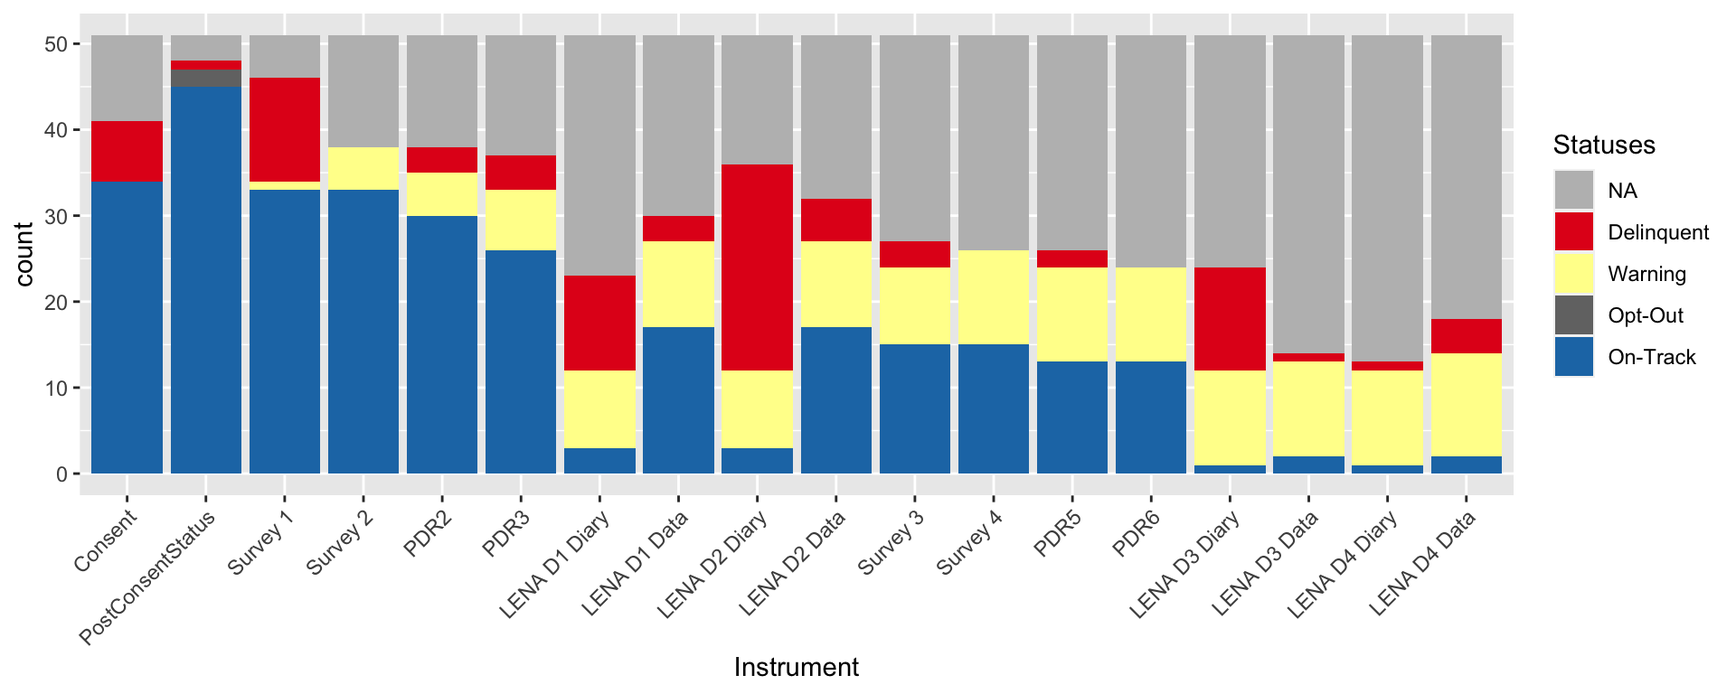
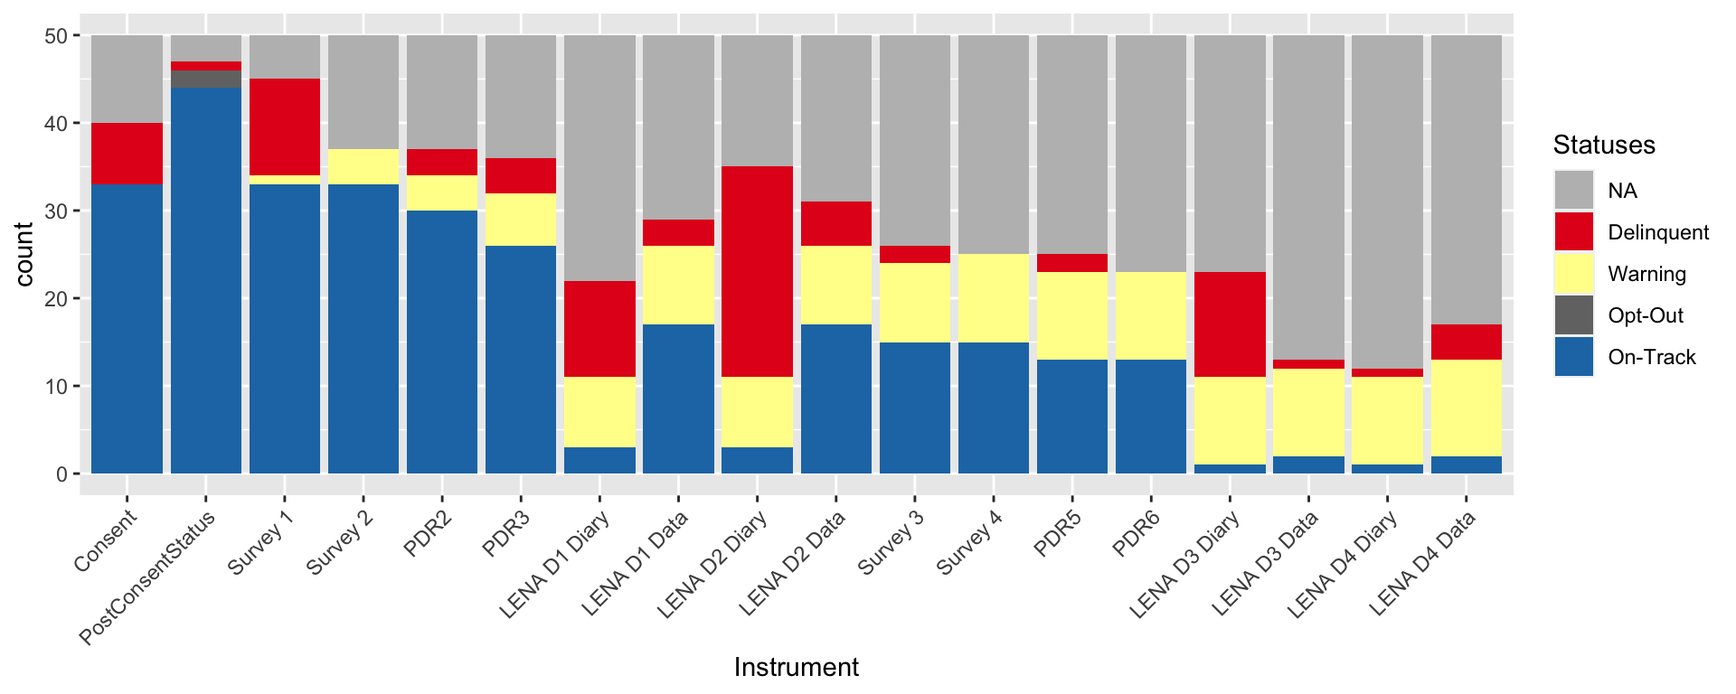
Update wave 1 buttons and intv.

diff --git a/_site/reports.html b/_site/reports.html
@@ -399,7 +399,7 @@ $(document).ready(function () {
 </div>
 <center>
 <div id="htmlwidget-2e17466358a46d139971" style="width:960px;height:384px;" class="plotly html-widget"></div>
-<script type="application/json" data-for="htmlwidget-2e17466358a46d139971">{"x":{"data":[{"x":[1577836800,1594210295,1595855440,1595947129,1596636699,1597147658,1597402867,1597741838,1598436608,1598538979,1598541299,1598955066,1599570320,1600250194,1600255992,1600355481,1600863340,1601302221,1601566658,1602239005,1603368728,1603379955,1603977413,1604491899,1604751373,1605089156,1605170346,1605179257,1605721538,1605872792,1607016682,1607085091,1607472000,1607644800,1607687486,1609891200,1609897301,1611187200,1611187200,1611187200,1609897301,1609891200,1607687486,1607644800,1607472000,1607085091,1607016682,1605872792,1605721538,1605179257,1605170346,1605089156,1604751373,1604491899,1603977413,1603379955,1603368728,1602239005,1601566658,1601302221,1600863340,1600355481,1600255992,1600250194,1599570320,1598955066,1598541299,1598538979,1598436608,1597741838,1597402867,1597147658,1596636699,1595947129,1595855440,1594210295,1577836800,1577836800],"y":[0,0,0,0,0,0,0,0,0,0,0,0,0,0,0,0,0,0,0,0,0,0,0,0,0,0,0,0,0,0,0,0,0,0,0,0,0,0,0,41,40,39,38,37,36,35,34,33,32,31,30,29,28,27,26,25,24,23,22,21,20,19,18,17,16,15,14,13,12,11,10,9,8,7,6,5,4,0],"text":["InformedConsent: 2020-01-01 08:00:00<br />Cumulative:  4","InformedConsent: 2020-07-08 19:11:35<br />Cumulative:  5","InformedConsent: 2020-07-27 20:10:40<br />Cumulative:  6","InformedConsent: 2020-07-28 21:38:49<br />Cumulative:  7","InformedConsent: 2020-08-05 21:11:39<br />Cumulative:  8","InformedConsent: 2020-08-11 19:07:38<br />Cumulative:  9","InformedConsent: 2020-08-14 18:01:07<br />Cumulative: 10","InformedConsent: 2020-08-18 16:10:38<br />Cumulative: 11","InformedConsent: 2020-08-26 17:10:08<br />Cumulative: 12","InformedConsent: 2020-08-27 21:36:19<br />Cumulative: 13","InformedConsent: 2020-08-27 22:14:59<br />Cumulative: 14","InformedConsent: 2020-09-01 17:11:06<br />Cumulative: 15","InformedConsent: 2020-09-08 20:05:20<br />Cumulative: 16","InformedConsent: 2020-09-16 16:56:34<br />Cumulative: 17","InformedConsent: 2020-09-16 18:33:12<br />Cumulative: 18","InformedConsent: 2020-09-17 22:11:21<br />Cumulative: 19","InformedConsent: 2020-09-23 19:15:40<br />Cumulative: 20","InformedConsent: 2020-09-28 21:10:21<br />Cumulative: 21","InformedConsent: 2020-10-01 22:37:38<br />Cumulative: 22","InformedConsent: 2020-10-09 17:23:25<br />Cumulative: 23","InformedConsent: 2020-10-22 19:12:08<br />Cumulative: 24","InformedConsent: 2020-10-22 22:19:15<br />Cumulative: 25","InformedConsent: 2020-10-29 20:16:53<br />Cumulative: 26","InformedConsent: 2020-11-04 20:11:39<br />Cumulative: 27","InformedConsent: 2020-11-07 20:16:13<br />Cumulative: 28","InformedConsent: 2020-11-11 18:05:56<br />Cumulative: 29","InformedConsent: 2020-11-12 16:39:06<br />Cumulative: 30","InformedConsent: 2020-11-12 19:07:37<br />Cumulative: 31","InformedConsent: 2020-11-19 01:45:38<br />Cumulative: 32","InformedConsent: 2020-11-20 19:46:32<br />Cumulative: 33","InformedConsent: 2020-12-04 01:31:22<br />Cumulative: 34","InformedConsent: 2020-12-04 20:31:31<br />Cumulative: 35","InformedConsent: 2020-12-09 08:00:00<br />Cumulative: 36","InformedConsent: 2020-12-11 08:00:00<br />Cumulative: 37","InformedConsent: 2020-12-11 19:51:26<br />Cumulative: 38","InformedConsent: 2021-01-06 08:00:00<br />Cumulative: 39","InformedConsent: 2021-01-06 09:41:41<br />Cumulative: 40","InformedConsent: 2021-01-21 08:00:00<br />Cumulative: 41","InformedConsent: 2021-01-21 08:00:00<br />Cumulative: 41","InformedConsent: 2021-01-21 08:00:00<br />Cumulative: 41","InformedConsent: 2021-01-06 09:41:41<br />Cumulative: 40","InformedConsent: 2021-01-06 08:00:00<br />Cumulative: 39","InformedConsent: 2020-12-11 19:51:26<br />Cumulative: 38","InformedConsent: 2020-12-11 08:00:00<br />Cumulative: 37","InformedConsent: 2020-12-09 08:00:00<br />Cumulative: 36","InformedConsent: 2020-12-04 20:31:31<br />Cumulative: 35","InformedConsent: 2020-12-04 01:31:22<br />Cumulative: 34","InformedConsent: 2020-11-20 19:46:32<br />Cumulative: 33","InformedConsent: 2020-11-19 01:45:38<br />Cumulative: 32","InformedConsent: 2020-11-12 19:07:37<br />Cumulative: 31","InformedConsent: 2020-11-12 16:39:06<br />Cumulative: 30","InformedConsent: 2020-11-11 18:05:56<br />Cumulative: 29","InformedConsent: 2020-11-07 20:16:13<br />Cumulative: 28","InformedConsent: 2020-11-04 20:11:39<br />Cumulative: 27","InformedConsent: 2020-10-29 20:16:53<br />Cumulative: 26","InformedConsent: 2020-10-22 22:19:15<br />Cumulative: 25","InformedConsent: 2020-10-22 19:12:08<br />Cumulative: 24","InformedConsent: 2020-10-09 17:23:25<br />Cumulative: 23","InformedConsent: 2020-10-01 22:37:38<br />Cumulative: 22","InformedConsent: 2020-09-28 21:10:21<br />Cumulative: 21","InformedConsent: 2020-09-23 19:15:40<br />Cumulative: 20","InformedConsent: 2020-09-17 22:11:21<br />Cumulative: 19","InformedConsent: 2020-09-16 18:33:12<br />Cumulative: 18","InformedConsent: 2020-09-16 16:56:34<br />Cumulative: 17","InformedConsent: 2020-09-08 20:05:20<br />Cumulative: 16","InformedConsent: 2020-09-01 17:11:06<br />Cumulative: 15","InformedConsent: 2020-08-27 22:14:59<br />Cumulative: 14","InformedConsent: 2020-08-27 21:36:19<br />Cumulative: 13","InformedConsent: 2020-08-26 17:10:08<br />Cumulative: 12","InformedConsent: 2020-08-18 16:10:38<br />Cumulative: 11","InformedConsent: 2020-08-14 18:01:07<br />Cumulative: 10","InformedConsent: 2020-08-11 19:07:38<br />Cumulative:  9","InformedConsent: 2020-08-05 21:11:39<br />Cumulative:  8","InformedConsent: 2020-07-28 21:38:49<br />Cumulative:  7","InformedConsent: 2020-07-27 20:10:40<br />Cumulative:  6","InformedConsent: 2020-07-08 19:11:35<br />Cumulative:  5","InformedConsent: 2020-01-01 08:00:00<br />Cumulative:  4","InformedConsent: 2020-01-01 08:00:00<br />Cumulative:  4"],"type":"scatter","mode":"lines","line":{"width":1.88976377952756,"color":"transparent","dash":"solid"},"fill":"toself","fillcolor":"rgba(105,179,162,0.5)","hoveron":"points","showlegend":false,"xaxis":"x","yaxis":"y","hoverinfo":"text","frame":null},{"x":[1577836800,1594210295,1595855440,1595947129,1596636699,1597147658,1597402867,1597741838,1598436608,1598538979,1598541299,1598955066,1599570320,1600250194,1600255992,1600355481,1600863340,1601302221,1601566658,1602239005,1603368728,1603379955,1603977413,1604491899,1604751373,1605089156,1605170346,1605179257,1605721538,1605872792,1607016682,1607085091,1607472000,1607644800,1607687486,1609891200,1609897301,1611187200,null],"y":[4,5,6,7,8,9,10,11,12,13,14,15,16,17,18,19,20,21,22,23,24,25,26,27,28,29,30,31,32,33,34,35,36,37,38,39,40,41,48],"text":["InformedConsent: 2020-01-01 00:00:00<br />Cumulative:  4","InformedConsent: 2020-07-08 12:11:35<br />Cumulative:  5","InformedConsent: 2020-07-27 13:10:40<br />Cumulative:  6","InformedConsent: 2020-07-28 14:38:49<br />Cumulative:  7","InformedConsent: 2020-08-05 14:11:39<br />Cumulative:  8","InformedConsent: 2020-08-11 12:07:38<br />Cumulative:  9","InformedConsent: 2020-08-14 11:01:07<br />Cumulative: 10","InformedConsent: 2020-08-18 09:10:38<br />Cumulative: 11","InformedConsent: 2020-08-26 10:10:08<br />Cumulative: 12","InformedConsent: 2020-08-27 14:36:19<br />Cumulative: 13","InformedConsent: 2020-08-27 15:14:59<br />Cumulative: 14","InformedConsent: 2020-09-01 10:11:06<br />Cumulative: 15","InformedConsent: 2020-09-08 13:05:20<br />Cumulative: 16","InformedConsent: 2020-09-16 09:56:34<br />Cumulative: 17","InformedConsent: 2020-09-16 11:33:12<br />Cumulative: 18","InformedConsent: 2020-09-17 15:11:21<br />Cumulative: 19","InformedConsent: 2020-09-23 12:15:40<br />Cumulative: 20","InformedConsent: 2020-09-28 14:10:21<br />Cumulative: 21","InformedConsent: 2020-10-01 15:37:38<br />Cumulative: 22","InformedConsent: 2020-10-09 10:23:25<br />Cumulative: 23","InformedConsent: 2020-10-22 12:12:08<br />Cumulative: 24","InformedConsent: 2020-10-22 15:19:15<br />Cumulative: 25","InformedConsent: 2020-10-29 13:16:53<br />Cumulative: 26","InformedConsent: 2020-11-04 12:11:39<br />Cumulative: 27","InformedConsent: 2020-11-07 12:16:13<br />Cumulative: 28","InformedConsent: 2020-11-11 10:05:56<br />Cumulative: 29","InformedConsent: 2020-11-12 08:39:06<br />Cumulative: 30","InformedConsent: 2020-11-12 11:07:37<br />Cumulative: 31","InformedConsent: 2020-11-18 17:45:38<br />Cumulative: 32","InformedConsent: 2020-11-20 11:46:32<br />Cumulative: 33","InformedConsent: 2020-12-03 17:31:22<br />Cumulative: 34","InformedConsent: 2020-12-04 12:31:31<br />Cumulative: 35","InformedConsent: 2020-12-09 00:00:00<br />Cumulative: 36","InformedConsent: 2020-12-11 00:00:00<br />Cumulative: 37","InformedConsent: 2020-12-11 11:51:26<br />Cumulative: 38","InformedConsent: 2021-01-06 00:00:00<br />Cumulative: 39","InformedConsent: 2021-01-06 01:41:41<br />Cumulative: 40","InformedConsent: 2021-01-21 00:00:00<br />Cumulative: 41","InformedConsent: NA<br />Cumulative: 48"],"type":"scatter","mode":"lines","line":{"width":1.88976377952756,"color":"rgba(105,179,162,1)","dash":"solid"},"hoveron":"points","showlegend":false,"xaxis":"x","yaxis":"y","hoverinfo":"text","frame":null}],"layout":{"margin":{"t":65.813200498132,"r":39.8505603985056,"b":80.8634288086343,"l":70.9007887090079},"font":{"color":"rgba(0,0,0,1)","family":"Arial Narrow","size":15.2760481527605},"xaxis":{"domain":[0,1],"automargin":true,"type":"linear","autorange":false,"range":[1576169280,1612854720],"tickmode":"array","ticktext":["Jan 2020","Apr 2020","Jul 2020","Oct 2020","Jan 2021"],"tickvals":[1577836800,1585699200,1593561600,1601510400,1609459200],"categoryorder":"array","categoryarray":["Jan 2020","Apr 2020","Jul 2020","Oct 2020","Jan 2021"],"nticks":null,"ticks":"","tickcolor":null,"ticklen":3.81901203819012,"tickwidth":0,"showticklabels":true,"tickfont":{"color":"rgba(77,77,77,1)","family":"Arial Narrow","size":15.2760481527605},"tickangle":-0,"showline":false,"linecolor":null,"linewidth":0,"showgrid":true,"gridcolor":"rgba(204,204,204,1)","gridwidth":0.265670402656704,"zeroline":false,"anchor":"y","title":{"text":"Time","font":{"color":"rgba(0,0,0,1)","family":"Arial Narrow","size":11.9551681195517}},"hoverformat":".2f"},"yaxis":{"domain":[0,1],"automargin":true,"type":"linear","autorange":false,"range":[-2.4,50.4],"tickmode":"array","ticktext":["0","10","20","30","40","50"],"tickvals":[0,10,20,30,40,50],"categoryorder":"array","categoryarray":["0","10","20","30","40","50"],"nticks":null,"ticks":"","tickcolor":null,"ticklen":3.81901203819012,"tickwidth":0,"showticklabels":true,"tickfont":{"color":"rgba(77,77,77,1)","family":"Arial Narrow","size":15.2760481527605},"tickangle":-0,"showline":false,"linecolor":null,"linewidth":0,"showgrid":true,"gridcolor":"rgba(204,204,204,1)","gridwidth":0.265670402656704,"zeroline":false,"anchor":"x","title":{"text":"Dyad Count","font":{"color":"rgba(0,0,0,1)","family":"Arial Narrow","size":11.9551681195517}},"hoverformat":".2f"},"shapes":[{"type":"rect","fillcolor":null,"line":{"color":null,"width":0,"linetype":[]},"yref":"paper","xref":"paper","x0":0,"x1":1,"y0":0,"y1":1}],"showlegend":false,"legend":{"bgcolor":null,"bordercolor":null,"borderwidth":0,"font":{"color":"rgba(0,0,0,1)","family":"Arial Narrow","size":12.2208385222084}},"hovermode":"closest","barmode":"relative"},"config":{"doubleClick":"reset","showSendToCloud":false},"source":"A","attrs":{"407a1ab38223":{"x":{},"y":{},"type":"scatter"},"407a7f24d586":{"x":{},"y":{}}},"cur_data":"407a1ab38223","visdat":{"407a1ab38223":["function (y) ","x"],"407a7f24d586":["function (y) ","x"]},"highlight":{"on":"plotly_click","persistent":false,"dynamic":false,"selectize":false,"opacityDim":0.2,"selected":{"opacity":1},"debounce":0},"shinyEvents":["plotly_hover","plotly_click","plotly_selected","plotly_relayout","plotly_brushed","plotly_brushing","plotly_clickannotation","plotly_doubleclick","plotly_deselect","plotly_afterplot","plotly_sunburstclick"],"base_url":"https://plot.ly"},"evals":[],"jsHooks":[]}</script><img src="reports_files/figure-html/SEAL%20Conditions%20Plot-2.png" width="960" />
+<script type="application/json" data-for="htmlwidget-2e17466358a46d139971">{"x":{"data":[{"x":[1577836800,1594210295,1595855440,1595947129,1596636699,1597147658,1597402867,1597741838,1598436608,1598538979,1598541299,1598955066,1599570320,1600250194,1600255992,1600355481,1600863340,1601302221,1601566658,1602239005,1603368728,1603379955,1603977413,1604491899,1604751373,1605089156,1605170346,1605179257,1605721538,1605872792,1607016682,1607085091,1607472000,1607644800,1607687486,1609891200,1609897301,1611187200,1611187200,1611187200,1609897301,1609891200,1607687486,1607644800,1607472000,1607085091,1607016682,1605872792,1605721538,1605179257,1605170346,1605089156,1604751373,1604491899,1603977413,1603379955,1603368728,1602239005,1601566658,1601302221,1600863340,1600355481,1600255992,1600250194,1599570320,1598955066,1598541299,1598538979,1598436608,1597741838,1597402867,1597147658,1596636699,1595947129,1595855440,1594210295,1577836800,1577836800],"y":[0,0,0,0,0,0,0,0,0,0,0,0,0,0,0,0,0,0,0,0,0,0,0,0,0,0,0,0,0,0,0,0,0,0,0,0,0,0,0,41,40,39,38,37,36,35,34,33,32,31,30,29,28,27,26,25,24,23,22,21,20,19,18,17,16,15,14,13,12,11,10,9,8,7,6,5,4,0],"text":["InformedConsent: 2020-01-01 08:00:00<br />Cumulative:  4","InformedConsent: 2020-07-08 19:11:35<br />Cumulative:  5","InformedConsent: 2020-07-27 20:10:40<br />Cumulative:  6","InformedConsent: 2020-07-28 21:38:49<br />Cumulative:  7","InformedConsent: 2020-08-05 21:11:39<br />Cumulative:  8","InformedConsent: 2020-08-11 19:07:38<br />Cumulative:  9","InformedConsent: 2020-08-14 18:01:07<br />Cumulative: 10","InformedConsent: 2020-08-18 16:10:38<br />Cumulative: 11","InformedConsent: 2020-08-26 17:10:08<br />Cumulative: 12","InformedConsent: 2020-08-27 21:36:19<br />Cumulative: 13","InformedConsent: 2020-08-27 22:14:59<br />Cumulative: 14","InformedConsent: 2020-09-01 17:11:06<br />Cumulative: 15","InformedConsent: 2020-09-08 20:05:20<br />Cumulative: 16","InformedConsent: 2020-09-16 16:56:34<br />Cumulative: 17","InformedConsent: 2020-09-16 18:33:12<br />Cumulative: 18","InformedConsent: 2020-09-17 22:11:21<br />Cumulative: 19","InformedConsent: 2020-09-23 19:15:40<br />Cumulative: 20","InformedConsent: 2020-09-28 21:10:21<br />Cumulative: 21","InformedConsent: 2020-10-01 22:37:38<br />Cumulative: 22","InformedConsent: 2020-10-09 17:23:25<br />Cumulative: 23","InformedConsent: 2020-10-22 19:12:08<br />Cumulative: 24","InformedConsent: 2020-10-22 22:19:15<br />Cumulative: 25","InformedConsent: 2020-10-29 20:16:53<br />Cumulative: 26","InformedConsent: 2020-11-04 20:11:39<br />Cumulative: 27","InformedConsent: 2020-11-07 20:16:13<br />Cumulative: 28","InformedConsent: 2020-11-11 18:05:56<br />Cumulative: 29","InformedConsent: 2020-11-12 16:39:06<br />Cumulative: 30","InformedConsent: 2020-11-12 19:07:37<br />Cumulative: 31","InformedConsent: 2020-11-19 01:45:38<br />Cumulative: 32","InformedConsent: 2020-11-20 19:46:32<br />Cumulative: 33","InformedConsent: 2020-12-04 01:31:22<br />Cumulative: 34","InformedConsent: 2020-12-04 20:31:31<br />Cumulative: 35","InformedConsent: 2020-12-09 08:00:00<br />Cumulative: 36","InformedConsent: 2020-12-11 08:00:00<br />Cumulative: 37","InformedConsent: 2020-12-11 19:51:26<br />Cumulative: 38","InformedConsent: 2021-01-06 08:00:00<br />Cumulative: 39","InformedConsent: 2021-01-06 09:41:41<br />Cumulative: 40","InformedConsent: 2021-01-21 08:00:00<br />Cumulative: 41","InformedConsent: 2021-01-21 08:00:00<br />Cumulative: 41","InformedConsent: 2021-01-21 08:00:00<br />Cumulative: 41","InformedConsent: 2021-01-06 09:41:41<br />Cumulative: 40","InformedConsent: 2021-01-06 08:00:00<br />Cumulative: 39","InformedConsent: 2020-12-11 19:51:26<br />Cumulative: 38","InformedConsent: 2020-12-11 08:00:00<br />Cumulative: 37","InformedConsent: 2020-12-09 08:00:00<br />Cumulative: 36","InformedConsent: 2020-12-04 20:31:31<br />Cumulative: 35","InformedConsent: 2020-12-04 01:31:22<br />Cumulative: 34","InformedConsent: 2020-11-20 19:46:32<br />Cumulative: 33","InformedConsent: 2020-11-19 01:45:38<br />Cumulative: 32","InformedConsent: 2020-11-12 19:07:37<br />Cumulative: 31","InformedConsent: 2020-11-12 16:39:06<br />Cumulative: 30","InformedConsent: 2020-11-11 18:05:56<br />Cumulative: 29","InformedConsent: 2020-11-07 20:16:13<br />Cumulative: 28","InformedConsent: 2020-11-04 20:11:39<br />Cumulative: 27","InformedConsent: 2020-10-29 20:16:53<br />Cumulative: 26","InformedConsent: 2020-10-22 22:19:15<br />Cumulative: 25","InformedConsent: 2020-10-22 19:12:08<br />Cumulative: 24","InformedConsent: 2020-10-09 17:23:25<br />Cumulative: 23","InformedConsent: 2020-10-01 22:37:38<br />Cumulative: 22","InformedConsent: 2020-09-28 21:10:21<br />Cumulative: 21","InformedConsent: 2020-09-23 19:15:40<br />Cumulative: 20","InformedConsent: 2020-09-17 22:11:21<br />Cumulative: 19","InformedConsent: 2020-09-16 18:33:12<br />Cumulative: 18","InformedConsent: 2020-09-16 16:56:34<br />Cumulative: 17","InformedConsent: 2020-09-08 20:05:20<br />Cumulative: 16","InformedConsent: 2020-09-01 17:11:06<br />Cumulative: 15","InformedConsent: 2020-08-27 22:14:59<br />Cumulative: 14","InformedConsent: 2020-08-27 21:36:19<br />Cumulative: 13","InformedConsent: 2020-08-26 17:10:08<br />Cumulative: 12","InformedConsent: 2020-08-18 16:10:38<br />Cumulative: 11","InformedConsent: 2020-08-14 18:01:07<br />Cumulative: 10","InformedConsent: 2020-08-11 19:07:38<br />Cumulative:  9","InformedConsent: 2020-08-05 21:11:39<br />Cumulative:  8","InformedConsent: 2020-07-28 21:38:49<br />Cumulative:  7","InformedConsent: 2020-07-27 20:10:40<br />Cumulative:  6","InformedConsent: 2020-07-08 19:11:35<br />Cumulative:  5","InformedConsent: 2020-01-01 08:00:00<br />Cumulative:  4","InformedConsent: 2020-01-01 08:00:00<br />Cumulative:  4"],"type":"scatter","mode":"lines","line":{"width":1.88976377952756,"color":"transparent","dash":"solid"},"fill":"toself","fillcolor":"rgba(105,179,162,0.5)","hoveron":"points","showlegend":false,"xaxis":"x","yaxis":"y","hoverinfo":"text","frame":null},{"x":[1577836800,1594210295,1595855440,1595947129,1596636699,1597147658,1597402867,1597741838,1598436608,1598538979,1598541299,1598955066,1599570320,1600250194,1600255992,1600355481,1600863340,1601302221,1601566658,1602239005,1603368728,1603379955,1603977413,1604491899,1604751373,1605089156,1605170346,1605179257,1605721538,1605872792,1607016682,1607085091,1607472000,1607644800,1607687486,1609891200,1609897301,1611187200,null],"y":[4,5,6,7,8,9,10,11,12,13,14,15,16,17,18,19,20,21,22,23,24,25,26,27,28,29,30,31,32,33,34,35,36,37,38,39,40,41,48],"text":["InformedConsent: 2020-01-01 00:00:00<br />Cumulative:  4","InformedConsent: 2020-07-08 12:11:35<br />Cumulative:  5","InformedConsent: 2020-07-27 13:10:40<br />Cumulative:  6","InformedConsent: 2020-07-28 14:38:49<br />Cumulative:  7","InformedConsent: 2020-08-05 14:11:39<br />Cumulative:  8","InformedConsent: 2020-08-11 12:07:38<br />Cumulative:  9","InformedConsent: 2020-08-14 11:01:07<br />Cumulative: 10","InformedConsent: 2020-08-18 09:10:38<br />Cumulative: 11","InformedConsent: 2020-08-26 10:10:08<br />Cumulative: 12","InformedConsent: 2020-08-27 14:36:19<br />Cumulative: 13","InformedConsent: 2020-08-27 15:14:59<br />Cumulative: 14","InformedConsent: 2020-09-01 10:11:06<br />Cumulative: 15","InformedConsent: 2020-09-08 13:05:20<br />Cumulative: 16","InformedConsent: 2020-09-16 09:56:34<br />Cumulative: 17","InformedConsent: 2020-09-16 11:33:12<br />Cumulative: 18","InformedConsent: 2020-09-17 15:11:21<br />Cumulative: 19","InformedConsent: 2020-09-23 12:15:40<br />Cumulative: 20","InformedConsent: 2020-09-28 14:10:21<br />Cumulative: 21","InformedConsent: 2020-10-01 15:37:38<br />Cumulative: 22","InformedConsent: 2020-10-09 10:23:25<br />Cumulative: 23","InformedConsent: 2020-10-22 12:12:08<br />Cumulative: 24","InformedConsent: 2020-10-22 15:19:15<br />Cumulative: 25","InformedConsent: 2020-10-29 13:16:53<br />Cumulative: 26","InformedConsent: 2020-11-04 12:11:39<br />Cumulative: 27","InformedConsent: 2020-11-07 12:16:13<br />Cumulative: 28","InformedConsent: 2020-11-11 10:05:56<br />Cumulative: 29","InformedConsent: 2020-11-12 08:39:06<br />Cumulative: 30","InformedConsent: 2020-11-12 11:07:37<br />Cumulative: 31","InformedConsent: 2020-11-18 17:45:38<br />Cumulative: 32","InformedConsent: 2020-11-20 11:46:32<br />Cumulative: 33","InformedConsent: 2020-12-03 17:31:22<br />Cumulative: 34","InformedConsent: 2020-12-04 12:31:31<br />Cumulative: 35","InformedConsent: 2020-12-09 00:00:00<br />Cumulative: 36","InformedConsent: 2020-12-11 00:00:00<br />Cumulative: 37","InformedConsent: 2020-12-11 11:51:26<br />Cumulative: 38","InformedConsent: 2021-01-06 00:00:00<br />Cumulative: 39","InformedConsent: 2021-01-06 01:41:41<br />Cumulative: 40","InformedConsent: 2021-01-21 00:00:00<br />Cumulative: 41","InformedConsent: NA<br />Cumulative: 48"],"type":"scatter","mode":"lines","line":{"width":1.88976377952756,"color":"rgba(105,179,162,1)","dash":"solid"},"hoveron":"points","showlegend":false,"xaxis":"x","yaxis":"y","hoverinfo":"text","frame":null}],"layout":{"margin":{"t":65.813200498132,"r":39.8505603985056,"b":80.8634288086343,"l":70.9007887090079},"font":{"color":"rgba(0,0,0,1)","family":"Arial Narrow","size":15.2760481527605},"xaxis":{"domain":[0,1],"automargin":true,"type":"linear","autorange":false,"range":[1576169280,1612854720],"tickmode":"array","ticktext":["Jan 2020","Apr 2020","Jul 2020","Oct 2020","Jan 2021"],"tickvals":[1577836800,1585699200,1593561600,1601510400,1609459200],"categoryorder":"array","categoryarray":["Jan 2020","Apr 2020","Jul 2020","Oct 2020","Jan 2021"],"nticks":null,"ticks":"","tickcolor":null,"ticklen":3.81901203819012,"tickwidth":0,"showticklabels":true,"tickfont":{"color":"rgba(77,77,77,1)","family":"Arial Narrow","size":15.2760481527605},"tickangle":-0,"showline":false,"linecolor":null,"linewidth":0,"showgrid":true,"gridcolor":"rgba(204,204,204,1)","gridwidth":0.265670402656704,"zeroline":false,"anchor":"y","title":{"text":"Time","font":{"color":"rgba(0,0,0,1)","family":"Arial Narrow","size":11.9551681195517}},"hoverformat":".2f"},"yaxis":{"domain":[0,1],"automargin":true,"type":"linear","autorange":false,"range":[-2.4,50.4],"tickmode":"array","ticktext":["0","10","20","30","40","50"],"tickvals":[0,10,20,30,40,50],"categoryorder":"array","categoryarray":["0","10","20","30","40","50"],"nticks":null,"ticks":"","tickcolor":null,"ticklen":3.81901203819012,"tickwidth":0,"showticklabels":true,"tickfont":{"color":"rgba(77,77,77,1)","family":"Arial Narrow","size":15.2760481527605},"tickangle":-0,"showline":false,"linecolor":null,"linewidth":0,"showgrid":true,"gridcolor":"rgba(204,204,204,1)","gridwidth":0.265670402656704,"zeroline":false,"anchor":"x","title":{"text":"Dyad Count","font":{"color":"rgba(0,0,0,1)","family":"Arial Narrow","size":11.9551681195517}},"hoverformat":".2f"},"shapes":[{"type":"rect","fillcolor":null,"line":{"color":null,"width":0,"linetype":[]},"yref":"paper","xref":"paper","x0":0,"x1":1,"y0":0,"y1":1}],"showlegend":false,"legend":{"bgcolor":null,"bordercolor":null,"borderwidth":0,"font":{"color":"rgba(0,0,0,1)","family":"Arial Narrow","size":12.2208385222084}},"hovermode":"closest","barmode":"relative"},"config":{"doubleClick":"reset","showSendToCloud":false},"source":"A","attrs":{"47693daca90d":{"x":{},"y":{},"type":"scatter"},"4769128eb41d":{"x":{},"y":{}}},"cur_data":"47693daca90d","visdat":{"47693daca90d":["function (y) ","x"],"4769128eb41d":["function (y) ","x"]},"highlight":{"on":"plotly_click","persistent":false,"dynamic":false,"selectize":false,"opacityDim":0.2,"selected":{"opacity":1},"debounce":0},"shinyEvents":["plotly_hover","plotly_click","plotly_selected","plotly_relayout","plotly_brushed","plotly_brushing","plotly_clickannotation","plotly_doubleclick","plotly_deselect","plotly_afterplot","plotly_sunburstclick"],"base_url":"https://plot.ly"},"evals":[],"jsHooks":[]}</script><img src="reports_files/figure-html/SEAL%20Conditions%20Plot-2.png" width="960" />
 <center>
 <div>
 

diff --git a/_site/enrollment.html b/_site/enrollment.html
@@ -414,7 +414,7 @@ $(document).ready(function () {
 </div>
 <div class="btn-group btn-group-justified">
 <div class="btn-group">
-<a href="#" class="btn btn-success"><strong>Intervention Complete</strong><br>12</a>
+<a href="#" class="btn btn-success"><strong>Intervention Complete</strong><br>17</a>
 </div>
 <div class="btn-group">
 <a href="#" class="btn btn-success"><strong>Intervention In Progress</strong><br>0</a>
@@ -1459,7 +1459,7 @@ Complete
 <td style="text-align:left;">
 </td>
 <td style="text-align:right;">
-2
+1
 </td>
 </tr>
 <tr>
@@ -1625,7 +1625,7 @@ NA
 Consent
 </td>
 <td style="text-align:right;">
-34
+33
 </td>
 <td style="text-align:right;">
 0
@@ -1648,7 +1648,7 @@ Consent
 Post Consent
 </td>
 <td style="text-align:right;">
-45
+44
 </td>
 <td style="text-align:right;">
 2
@@ -1683,7 +1683,7 @@ Survey 1
 0
 </td>
 <td style="text-align:right;">
-12
+11
 </td>
 <td style="text-align:right;">
 5
@@ -1700,7 +1700,7 @@ Survey 2
 0
 </td>
 <td style="text-align:right;">
-5
+4
 </td>
 <td style="text-align:right;">
 0
@@ -1723,7 +1723,7 @@ PDR2
 0
 </td>
 <td style="text-align:right;">
-5
+4
 </td>
 <td style="text-align:right;">
 0
@@ -1746,7 +1746,7 @@ PDR3
 0
 </td>
 <td style="text-align:right;">
-7
+6
 </td>
 <td style="text-align:right;">
 0
@@ -1769,7 +1769,7 @@ LENA D1 Diary
 0
 </td>
 <td style="text-align:right;">
-9
+8
 </td>
 <td style="text-align:right;">
 0
@@ -1792,7 +1792,7 @@ LENA D1 Data
 0
 </td>
 <td style="text-align:right;">
-10
+9
 </td>
 <td style="text-align:right;">
 0
@@ -1815,7 +1815,7 @@ LENA D2 Diary
 0
 </td>
 <td style="text-align:right;">
-9
+8
 </td>
 <td style="text-align:right;">
 0
@@ -1838,7 +1838,7 @@ LENA D2 Data
 0
 </td>
 <td style="text-align:right;">
-10
+9
 </td>
 <td style="text-align:right;">
 0
@@ -1867,7 +1867,7 @@ Survey 3
 0
 </td>
 <td style="text-align:right;">
-3
+2
 </td>
 <td style="text-align:right;">
 24
@@ -1884,7 +1884,7 @@ Survey 4
 0
 </td>
 <td style="text-align:right;">
-11
+10
 </td>
 <td style="text-align:right;">
 0
@@ -1907,7 +1907,7 @@ PDR5
 0
 </td>
 <td style="text-align:right;">
-11
+10
 </td>
 <td style="text-align:right;">
 0
@@ -1930,7 +1930,7 @@ PDR6
 0
 </td>
 <td style="text-align:right;">
-11
+10
 </td>
 <td style="text-align:right;">
 0
@@ -1953,7 +1953,7 @@ LENA D3 Diary
 0
 </td>
 <td style="text-align:right;">
-11
+10
 </td>
 <td style="text-align:right;">
 0
@@ -1976,7 +1976,7 @@ LENA D3 Data
 0
 </td>
 <td style="text-align:right;">
-11
+10
 </td>
 <td style="text-align:right;">
 0
@@ -1999,7 +1999,7 @@ LENA D4 Diary
 0
 </td>
 <td style="text-align:right;">
-11
+10
 </td>
 <td style="text-align:right;">
 0
@@ -2022,7 +2022,7 @@ LENA D4 Data
 0
 </td>
 <td style="text-align:right;">
-12
+11
 </td>
 <td style="text-align:right;">
 0
